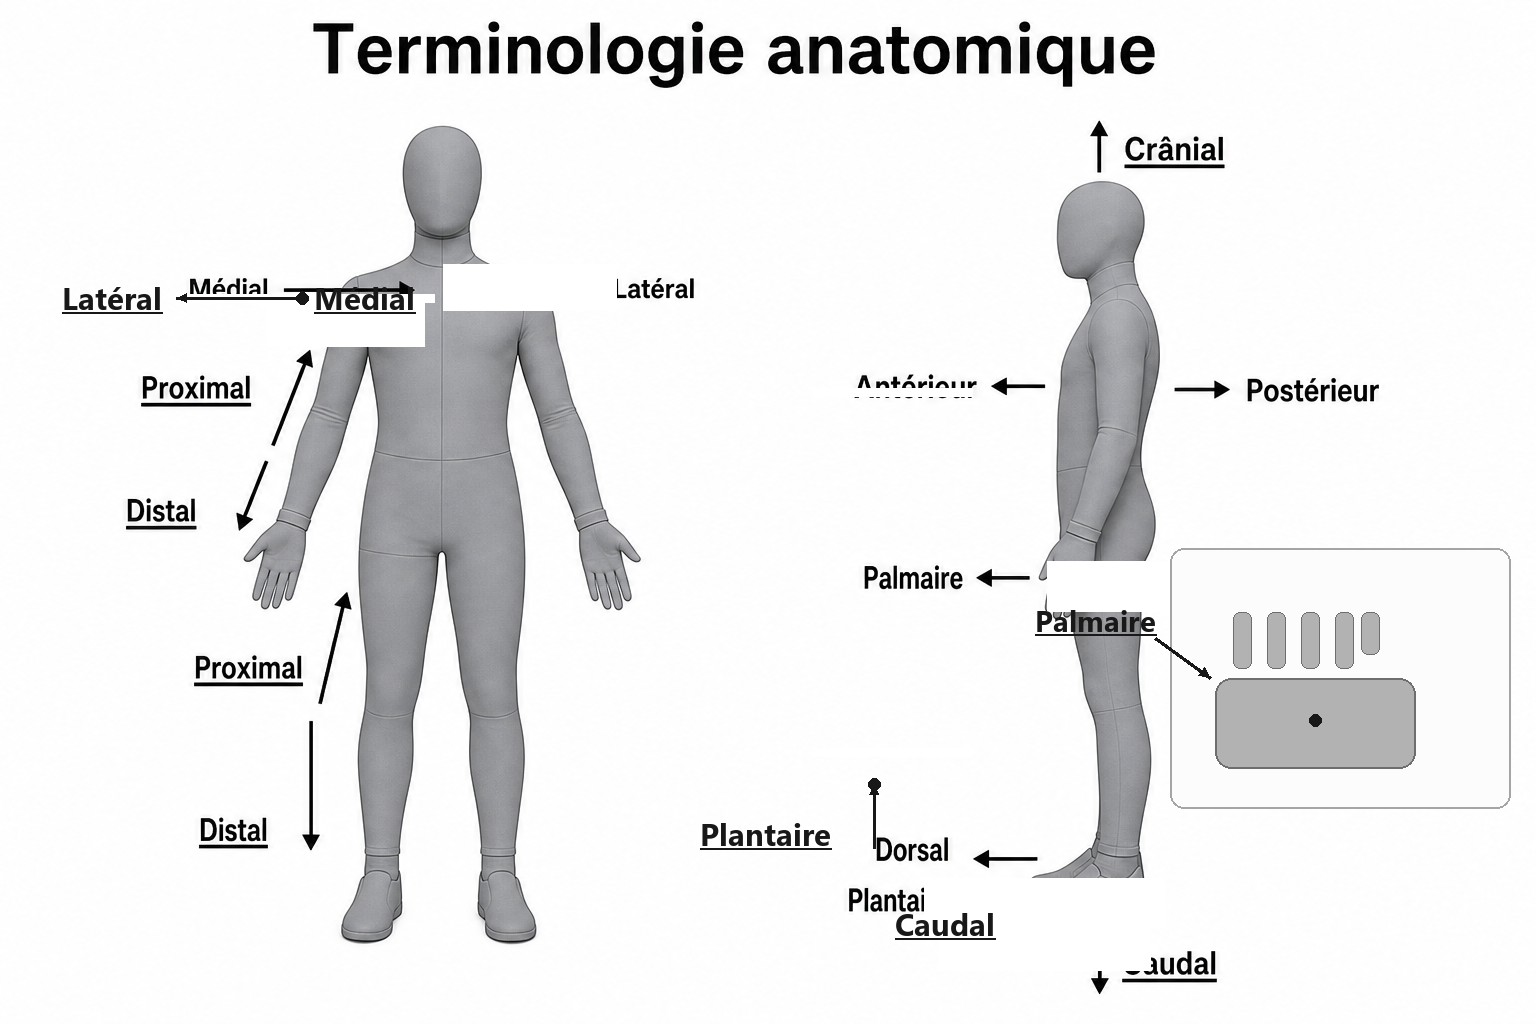
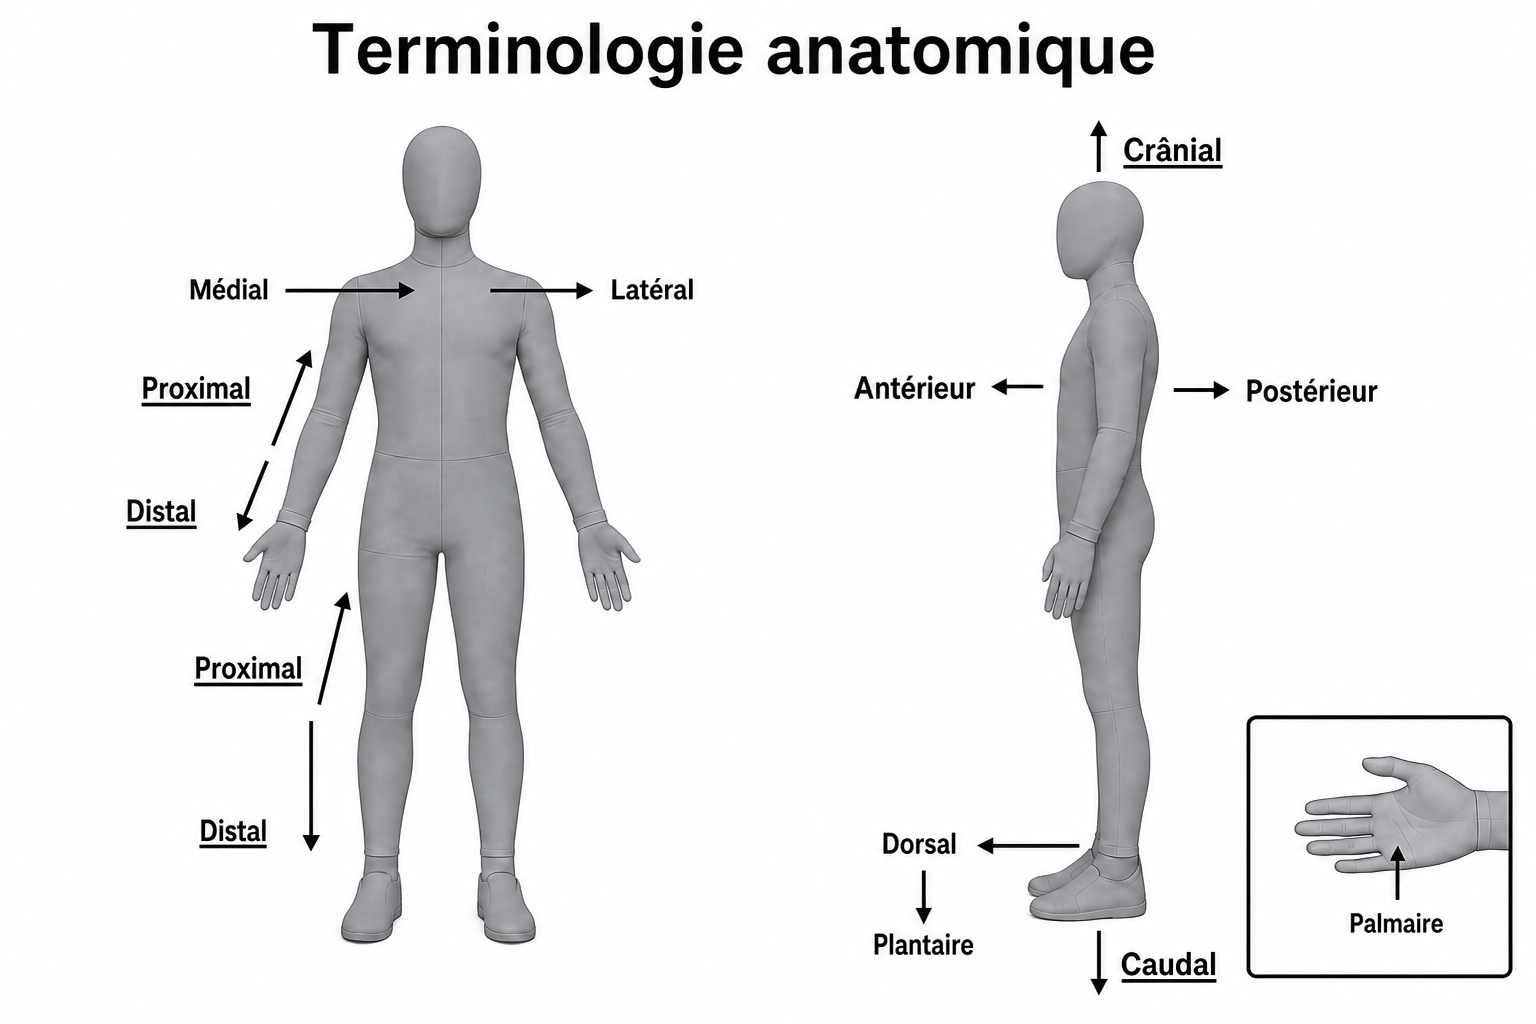
Fix ch01 terminologie schema: plantaire, lateral, dorsal arrows.

diff --git a/data/flash/ch01.js b/data/flash/ch01.js
@@ -58,7 +58,7 @@
     { id: "FC-ANAT-01-049", chapter: "01", priority: "P3", kind: "text", front: "Terminologia anatomica : année ?", back: "1998 — langage anatomique international commun." },
     { id: "FC-ANAT-01-S01", chapter: "01", priority: "P1", kind: "schema", front: "Schéma — Position anatomique de référence", back: "Position anatomique de référence", frontImg: "matiere/anatomie/img/ch01/blank/01_position_anatomique.png", backImg: "matiere/anatomie/img/ch01/01_position_anatomique.png" },
     { id: "FC-ANAT-01-S02", chapter: "01", priority: "P1", kind: "schema", front: "Schéma — Axe médian", back: "Axe médian", frontImg: "matiere/anatomie/img/ch01/blank/02_axe_median.png", backImg: "matiere/anatomie/img/ch01/02_axe_median.png" },
-    { id: "FC-ANAT-01-S03", chapter: "01", priority: "P2", kind: "schema", front: "Schéma — Terminologie anatomique", back: "Terminologie anatomique", frontImg: "matiere/anatomie/img/ch01/blank/03_terminologie.png", backImg: "matiere/anatomie/img/ch01/03_terminologie.png" },
+    { id: "FC-ANAT-01-S03", chapter: "01", priority: "P2", kind: "schema", front: "Schéma — Terminologie anatomique", back: "Terminologie anatomique", frontImg: "matiere/anatomie/img/ch01/blank/03_terminologie.png?v=rule3", backImg: "matiere/anatomie/img/ch01/03_terminologie.png?v=rule3" },
     { id: "FC-ANAT-01-S04", chapter: "01", priority: "P2", kind: "schema", front: "Schéma — Morphologie externe", back: "Morphologie externe", frontImg: "matiere/anatomie/img/ch01/blank/04_morpho_externe_coeur.png", backImg: "matiere/anatomie/img/ch01/04_morpho_externe_coeur.png" },
     { id: "FC-ANAT-01-S05", chapter: "01", priority: "P2", kind: "schema", front: "Schéma — Morphologie interne", back: "Morphologie interne", frontImg: "matiere/anatomie/img/ch01/blank/05_morpho_interne_coeur.png", backImg: "matiere/anatomie/img/ch01/05_morpho_interne_coeur.png" },
     { id: "FC-ANAT-01-S06", chapter: "01", priority: "P2", kind: "schema", front: "Schéma — Régions du corps", back: "Régions du corps", frontImg: "matiere/anatomie/img/ch01/blank/06_regions_corps.png", backImg: "matiere/anatomie/img/ch01/06_regions_corps.png" },

diff --git a/matiere/anatomie/ch01.html b/matiere/anatomie/ch01.html
@@ -113,7 +113,7 @@
       <div class="callout trap"><strong>Attention / piège</strong> Proximal/distal = origine du membre · Médial/latéral = plan médian.</div>
 
       <figure class="schema">
-        <img src="./img/ch01/03_terminologie.png" alt="Terminologie anatomique" />
+        <img src="./img/ch01/03_terminologie.png?v=rule3" alt="Terminologie anatomique" />
       </figure>
 
       <div class="label-quiz" data-labels='[["cranial","superieur"],["caudal","inferieur"],["proximal"],["distal"],["homolateral","ipsilateral"],["contralateral","controlateral"],["medial","interne"],["lateral","externe"]]'>
